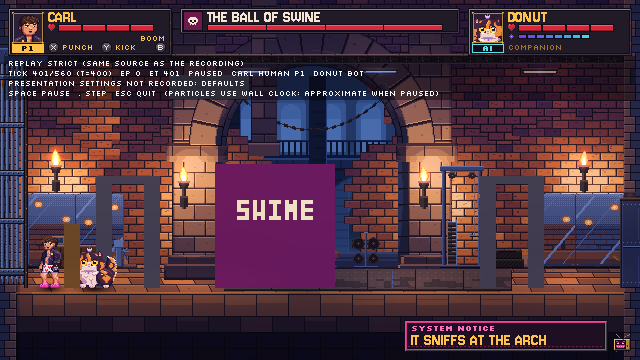
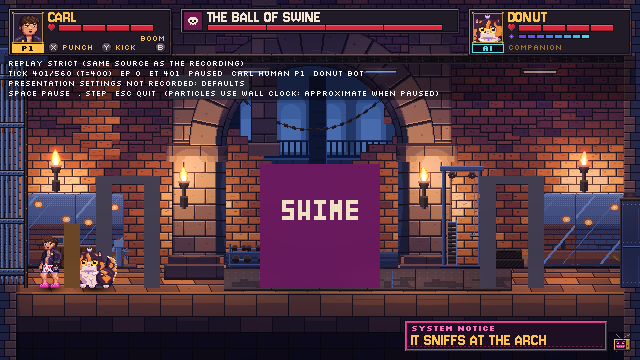
fix(f01): BOS-A review fixes: the ball recentres after a crash (BOS-AD34, closes BOS-Q12), F19, F11 asserts >= 3 crashes, G-5 at the alcove edge, push_heroes room under the siege gate

Changed region(s): [[0.3125, 0.4583, 0.5938, 0.825]]

diff --git a/src/ball_fixtures.rs b/src/ball_fixtures.rs
@@ -10,9 +10,7 @@
 use std::path::Path;
 
 use crate::boss::{Boss, BossMode};
-use crate::boss_scene::{
-    BALL_FULL, BALL_STORY_PIN, Pilot, ball_hp, ball_story_setup, boss_base, load_ball_arena,
-};
+use crate::boss_scene::{BALL_FULL, Pilot, ball_hp, ball_story_setup, boss_base, load_ball_arena};
 use crate::combat::CombatEvent;
 use crate::combat_scene::{CombatState, Fixture};
 use crate::corridor::SceneSim;
@@ -31,18 +29,28 @@ pub const ALCOVE_LEFT_X: f32 = 80.0;
 pub const ALCOVE_RIGHT_X: f32 = 560.0;
 /// The jab period of the pilot: a first-clear player, not a frame-perfect bot.
 const SWING_PERIOD: u64 = 16;
+/// Where the pilot waits just outside an alcove (reachable pivots 111..529).
+const STEP_OUT_LEFT_X: f32 = 118.0;
+const STEP_OUT_RIGHT_X: f32 = 522.0;
 /// A hero this far (px, pivot to pivot) from the ball is outside its shove box.
 const SHOVE_CLEAR_PX: f32 = 118.0;
 /// The pilot walks past the engage line to this column to close the gate.
 const ENTER_X: f32 = 150.0;
+
+const fn run(dir: f32) -> RawInput {
+    RawInput {
+        move_x: dir,
+        ..RawInput::NONE
+    }
+}
 
 const fn toward(from: f32, to: f32) -> f32 {
     if to > from { 1.0 } else { -1.0 }
 }
 
 /// `carl_bait_punish` (BOS-AD22, F11): Carl runs into the alcove behind the arch
-/// the roll is aimed at, steps out to punish the crash and the shove's
-/// recovery, and steps out of the shove's box. A pure function of the state.
+/// the roll is aimed at, steps out to punish the crash (not the shove: it baits
+/// the next roll instead, BOS-AD34), and steps out of the shove's box. A pure function of the state.
 pub fn bait_pilot(tick: u64, combat: &CombatState, scene: &SceneSim, boss: &Boss) -> RawInput {
     let hero = &scene.world.hero;
     let x = hero.x;
@@ -96,11 +104,7 @@ pub fn bait_pilot(tick: u64, combat: &CombatState, scene: &SceneSim, boss: &Boss
             };
             let vulnerable = matches!(
                 boss.mode,
-                BossMode::Rebound
-                    | BossMode::Stun
-                    | BossMode::Pinned
-                    | BossMode::PoundRecover
-                    | BossMode::Flinch
+                BossMode::Rebound | BossMode::Stun | BossMode::Pinned | BossMode::Flinch
             );
             let gap = if x < body.left {
                 body.left - x
@@ -113,14 +117,21 @@ pub fn bait_pilot(tick: u64, combat: &CombatState, scene: &SceneSim, boss: &Boss
             if !vulnerable {
                 // Bait: stay at the edge of the shove's reach (never nearer
                 // than the box) and let the ball come or roll.
-                return if gap < 56.0 {
-                    RawInput {
+                if gap < 56.0 {
+                    return RawInput {
                         move_x: -side,
                         ..RawInput::NONE
-                    }
-                } else {
-                    idle
-                };
+                    };
+                }
+                // Out of the alcove once the ball has walked back far enough (BOS-AD34): a
+                // hero inside it is unreachable, so no roll could be baited.
+                if x <= 110.0 && (boss.x - STEP_OUT_LEFT_X).abs() >= 130.0 {
+                    return run(1.0);
+                }
+                if x >= 530.0 && (boss.x - STEP_OUT_RIGHT_X).abs() >= 130.0 {
+                    return run(-1.0);
+                }
+                return idle;
             }
             if gap > 18.0 {
                 return RawInput {
@@ -411,7 +422,6 @@ pub fn ball_relaunch(
             break;
         }
     }
-    let _ = BALL_STORY_PIN;
     Ok(sim)
 }
 
@@ -585,6 +595,12 @@ mod tests {
             c.rig.tally.crashes.len()
         );
         assert!((1200..=6000).contains(&at), "F11 clear at tick {at}");
+        // The fight's identity (BOS-AD34): the roll is baited again and again, not once.
+        assert!(
+            c.rig.tally.crashes.len() >= 3,
+            "F11: {} crashes",
+            c.rig.tally.crashes.len()
+        );
         assert!(c.rig.health_of(HeroId::Carl) >= 1 && c.rig.health_of(HeroId::Donut) >= 1);
         // F15: one phase, no roar, shockwave or double pound.
         assert!(c.phase_1 && c.no_ripple && c.no_forbidden_event);
@@ -794,7 +810,7 @@ mod tests {
 
     // F8b: a hide directly after a left crash.
     #[test]
-    fn f8b_the_siege_still_commits_after_a_crash_close_to_the_arch() {
+    fn f8b_the_siege_still_commits_after_a_crash_and_the_recentre() {
         // Donut baits a roll at the left arch and hides; Carl is already hidden.
         let mut rig = staged(448.0, -1, 80.0, 320.0);
         drive(
@@ -824,9 +840,70 @@ mod tests {
         }
         let x = stopped.expect("the warning came");
         println!("BOS-F8b warning_x={x}");
-        assert!((x - 276.0).abs() <= 2.0, "the ball stops at about 276: {x}");
+        // BOS-AD34: the ball walks back to the centre after the crash (3 px/tick, about 33
+        // ticks) and then stops at the warning; before it, the walk stopped at about 276.
+        assert!(
+            (x - 320.0).abs() <= 2.0,
+            "the ball stops at the centre: {x}"
+        );
         assert_eq!(rig.tally.crashes.len(), 2, "the siege roll still crashed");
         assert!(rig.tally.debris_hits >= 1);
+    }
+
+    // F19 (BOS-AD34, closes BOS-Q12): after a crash the ball walks back to the centre,
+    // so a hero in the arch pocket is baited again: the cycle repeats.
+    #[test]
+    fn f19_the_ball_recentres_after_a_crash_and_the_next_roll_follows() {
+        let mut rig = staged(448.0, -1, 320.0, 60.0);
+        let (mut stun_over, mut centred, mut stepped, mut second_tell) = (None, None, false, None);
+        for tick in 0..900u64 {
+            let b = rig.boss();
+            let x = rig.x_of(HeroId::Carl);
+            if stun_over.is_none() && !rig.tally.crashes.is_empty() && b.mode == BossMode::Neutral {
+                stun_over = Some(tick);
+            }
+            if centred.is_none() && stun_over.is_some() && (b.x - 320.0).abs() < 0.01 {
+                centred = Some(tick);
+            }
+            if stun_over.is_some() && b.mode == BossMode::ChargeTell && second_tell.is_none() {
+                second_tell = Some(tick);
+            }
+            // Carl runs for the alcove from the first tell, then steps out once the ball
+            // has walked back far enough, and waits in the pocket.
+            let carl = if second_tell.is_none() && stun_over.is_none() {
+                carl_runs(&rig)[0]
+            } else if stun_over.is_some() && second_tell.is_none() && (stepped || b.x >= 300.0) {
+                stepped = true;
+                if x < 125.0 { run(1.0) } else { IDLE }
+            } else {
+                carl_runs(&rig)[0]
+            };
+            rig.step([carl, IDLE]);
+            if rig.tally.crashes.len() == 2 {
+                break;
+            }
+        }
+        let (over, at) = (
+            stun_over.expect("the first stun ended"),
+            centred.expect("it recentred"),
+        );
+        println!(
+            "BOS-F19 stun_over={over} centred_after={} second_tell={second_tell:?}",
+            at - over
+        );
+        assert!(
+            at - over <= 40,
+            "back at the centre within 40 ticks: {}",
+            at - over
+        );
+        assert!(second_tell.is_some(), "the next roll was baited");
+        assert_eq!(rig.tally.crashes.len(), 2, "and it crashed");
+        assert_eq!(
+            rig.tally.party_loss, 0,
+            "the pocket hero ran for the alcove in time"
+        );
+        // The Juicer's data has no recentre speed: it stays where it stood.
+        assert!(crate::boss::builtin().siege.is_none());
     }
 
     // F9

diff --git a/src/boss.rs b/src/boss.rs
@@ -257,6 +257,12 @@ pub struct SiegeData {
     /// unkillable decoy. Off unless the solo gate rows fail without it.
     #[serde(default)]
     pub ignore_bot_decoy: bool,
+    /// BOS-AD34 (closes BOS-Q12): after a Stun or a Pin the ball walks back toward
+    /// `arena.centre_x` at this many px per tick (0 or absent: it stays where it
+    /// stood), so a hero in the arch pocket gets the run room of the next bait
+    /// roll. It deals no damage; a hero in its shove range still gets the shove.
+    #[serde(default)]
+    pub recentre_px_per_tick: f32,
 }
 
 /// Every tunable of the encounter (design section 6).
@@ -731,6 +737,9 @@ pub struct Boss {
     /// BOS-AD20: the running or telegraphed roll is a siege roll. Hashed only
     /// when `data.siege` is Some.
     siege_roll: bool,
+    /// BOS-AD34: the ball is walking back to the centre after a Stun or a Pin.
+    /// Hashed only when `data.siege` is Some.
+    recentring: bool,
 }
 
 impl Boss {
@@ -774,6 +783,7 @@ impl Boss {
             defeated_cause_rack: false,
             unreachable_ticks: 0,
             siege_roll: false,
+            recentring: false,
         }
     }
 
@@ -1611,6 +1621,7 @@ impl Boss {
             BossMode::Stun => {
                 if self.mode_tick >= self.by_phase(d.crash.stun_by_phase) {
                     self.enter(BossMode::Neutral);
+                    self.recentring = self.recentre_speed() > 0.0;
                 }
             }
             BossMode::Roar => {
@@ -1633,6 +1644,7 @@ impl Boss {
             BossMode::Pinned => {
                 if self.mode_tick >= d.rack.pin_ticks {
                     self.enter(BossMode::Neutral);
+                    self.recentring = self.recentre_speed() > 0.0;
                 }
             }
         }
@@ -1684,6 +1696,9 @@ impl Boss {
             self.start_roar(ctx, out);
             return;
         }
+        if self.recentring && self.recentre_step(ctx) {
+            return;
+        }
         if d.siege.is_some() && self.siege_step(ctx, out) {
             return;
         }
@@ -1730,6 +1745,37 @@ impl Boss {
         if ahead > d.pound.range_px[1] {
             self.x = self.clamp_walk(self.x + f32::from(self.facing) * d.walk_px_s * TICK);
         }
+    }
+
+    /// BOS-AD34: the recentre speed (px per tick) of the data, 0 without a siege rule.
+    fn recentre_speed(&self) -> f32 {
+        self.data
+            .siege
+            .as_ref()
+            .map_or(0.0, |s| s.recentre_px_per_tick)
+    }
+
+    /// BOS-AD34: one tick of the walk back to the centre after a Stun or a Pin.
+    /// A target standing in the shove range still gets the shove (the caller goes
+    /// on); otherwise the ball steps toward `centre_x` and the walk ends on it.
+    /// Returns true when it took the tick.
+    fn recentre_step(&mut self, ctx: &BossCtx) -> bool {
+        let d = self.data;
+        let speed = self.recentre_speed();
+        if let Some(target) = self.target_view(ctx) {
+            let ahead = (target.x - self.x) * f32::from(self.facing);
+            if (d.pound.range_px[0]..=d.pound.range_px[1]).contains(&ahead) {
+                return false;
+            }
+        }
+        let to = d.arena.centre_x - self.x;
+        if to.abs() <= speed {
+            self.x = d.arena.centre_x;
+            self.recentring = false;
+        } else {
+            self.x = self.clamp_walk(self.x + to.signum() * speed);
+        }
+        true
     }
 
     /// BOS-AD20, BOS-AD27: the siege in Neutral. At the warning the ball stops
@@ -1906,8 +1952,16 @@ impl Boss {
             }
             let to_left = body.left - HERO_HALF_WIDTH - 1.0;
             let to_right = body.right() + HERO_HALF_WIDTH + 1.0;
-            let room_left = body.left - arena.left_wall_x;
-            let room_right = arena.right_wall_x - body.right();
+            // BOS-AD34 (review R4): with a siege rule the room is measured to the
+            // gate solid and the hero wall, not to the arches (the heroes walk
+            // past them), so nobody is pushed through the body.
+            let (lo, hi) = if self.data.siege.is_some() {
+                (self.data.gate.solid_x, arena.hero_right_wall())
+            } else {
+                (arena.left_wall_x, arena.right_wall_x)
+            };
+            let room_left = body.left - lo;
+            let room_right = hi - body.right();
             let nearer_left = (hero.x - to_left).abs() <= (to_right - hero.x).abs();
             let go_left = if nearer_left {
                 room_left >= min_room || room_right < min_room
@@ -1985,6 +2039,7 @@ impl Boss {
         if self.data.siege.is_some() {
             mix(u64::from(self.unreachable_ticks));
             mix(u64::from(self.siege_roll));
+            mix(u64::from(self.recentring));
         }
     }
 }

diff --git a/src/bos_eval.rs b/src/bos_eval.rs
@@ -169,10 +169,10 @@ pub fn rows() -> Vec<Row> {
         },
         Row {
             id: "G-5",
-            setup: "Carl stationary jab at the left alcove mouth (pivot 105); Donut idle in the alcove (60)"
+            setup: "Carl stationary jab at the left alcove edge (pivot 110, held at 107..110 after the turn step); Donut idle in the alcove (60)"
                 .into(),
             solo: false,
-            carl: plan(START_X, Some(105.0), 1.0, Act::Jab),
+            carl: plan(START_X, Some(106.9), 1.0, Act::Jab),
             donut: PARKED_LEFT,
             ranges: [Some(LEFT_ALCOVE), Some(LEFT_ALCOVE)],
         },
@@ -193,7 +193,7 @@ pub fn rows() -> Vec<Row> {
         out.push(Row {
             id: ["G-7a", "G-7b", "G-7c"][i],
             setup: format!(
-                "solo: the player is Donut, casting from the right alcove at pivot {p}; Carl is the live follower bot (M1)"
+                "solo: the player is Donut, casting from the right alcove at pivot {p}; Carl is the live follower bot (M1), stranded on the far side (the decoy case is G-6)"
             ),
             solo: true,
             carl: plan(130.0, None, 1.0, Act::Idle),
@@ -210,10 +210,22 @@ struct Hold {
     turned: bool,
 }
 
+impl Hold {
+    fn crossed(&self, start: f32, x: f32, target: f32) -> bool {
+        if target >= start {
+            x >= target
+        } else {
+            x <= target
+        }
+    }
+}
+
 fn drive_one(plan: &Plan, x: f32, facing: i8, hold: &mut Hold, tick: u64) -> RawInput {
+    // It walks until it has crossed its column (so a column just inside an alcove's edge
+    // is held after the turn step, never outside it).
     if let Some(target) = plan.target
         && !hold.turned
-        && (x - target).abs() > 2.0
+        && !hold.crossed(plan.start, x, target)
     {
         return RawInput {
             move_x: if target > x { 1.0 } else { -1.0 },

diff --git a/docs/04-production/f01-playtest-ready-01.md b/docs/04-production/f01-playtest-ready-01.md
@@ -75,7 +75,7 @@ The HUD strip shows `ROOM n/17` in the panels and the room title with `TRY n`. T
 | 15 | `juicer` "The Juicer" (room 5, boss) | The boss arena with the gym kit; dynamite, the gate, the grants (HEAVY FIST, PUDDLE JUMPER); an autonomous Donut fights too. | dressed: AREA-GYM-01 #275 (its own exit door, GYM-AD2), gate drop #288 |
 | 16 | `rest_aftermath` "After the Juicer" | Quiet room: the wrecked gym, the heavy bag, a 112 px blink lane with no reward. REST-C #304. | dressed: AREA-CAMP-01 #308 |
 | 17 | `mastery` "The Mastery Arena" (room 6) | Everything is held; wave 1 brawl lane, wave 2 llama yard; the exit gate opens when the roster is down. Leads into the Ball of Swine. | greybox; the exit gate is drawn (#274), the room itself is not dressed |
-| 18 | `bos` "The Ball of Swine" (the finale, `--scene f01_ball`) | The locked 640 px arena with two abstract arches and a hero alcove behind each. Bait the roll into an arch from the alcove, then punish the crash; hit the chain-weight post in the left alcove three times to drop it on the stunned ball; a hero who hides in an alcove is sieged (the ball sniffs, then rolls at the arch). The exit opens only on a real defeat. BOS-A (the plan: `docs/01-design/floor-01-bos-integration.md`, from the owner draft #192). | greybox: the ball is a labelled body, the arches are outlines, no new art |
+| 18 | `bos` "The Ball of Swine" (the finale, `--scene f01_ball`) | The locked 640 px arena with two abstract arches and a hero alcove behind each. Bait the roll into an arch from the alcove, then punish the crash; hit the chain-weight post in the left alcove three times to drop it on the stunned ball; a hero who hides in an alcove is sieged (the ball sniffs, then rolls at the arch); after a crash the ball walks back to the centre so the roll can be baited again (BOS-AD34); a hero who stays within its shove range gets the shove loop instead. The exit opens only on a real defeat. BOS-A (the plan: `docs/01-design/floor-01-bos-integration.md`, from the owner draft #192). | greybox: the ball is a labelled body, the arches are outlines, no new art |
 
 ## 3. Missing, by owner decision (budget order 2026-11-27)
 
@@ -111,7 +111,7 @@ Two to four things per room. "Look" means judge with your eyes at 1x; "feel" mea
 15. **`juicer`.** Feel: dynamite on the boss, the autonomous Donut in the fight (she leaves Carl the kill). Look: the `HEAVY FIST` then `PUDDLE JUMPER` notices (the second notice never showed in one capture, check it in the Juicer), the gate drop, the narrow 20 px exit door.
 16. **`rest_aftermath`.** Look: the wrecked gym, the grooves, the bag (`--rest-pilot punch`). Feel: the 112 px blink lane has no reward: is it worth having?
 17. **`mastery`.** Feel: the "powerful enemies" waves with everything held; clear time. The exit leads into the Ball of Swine.
-18. **`bos`.** Feel: the 36-tick roll tell and the run to the alcove (a roll is dodged only by the alcove; Carl's jump does not clear it), the punish of the crash (about 4 jab hits in the 66-tick stun), the shove's tell and recovery, the chain weight (hit the post twice early, bait the roll into the left arch, land the third hit during the crash), and the siege: stay in an alcove and the ball sniffs (`IT SNIFFS AT THE ARCH`), then rolls at the arch for 2 damage to heroes in it; stepping out cancels it. Look: the greybox ball with its label, the arch outlines, the exit opening after the defeat and the `FLOOR 1 CLEARED` panel with its facts-only total.
+18. **`bos`.** Feel: the 36-tick roll tell and the run to the alcove (a roll is dodged only by the alcove; Carl's jump does not clear it), the punish of the crash (about 4 jab hits in the 66-tick stun) and the ball walking back to the centre afterwards (a pilot baits about 8 rolls in a clear), the shove's tell and recovery, the chain weight (hit the post twice early, bait the roll into the left arch, land the third hit during the crash), and the siege: stay in an alcove and the ball sniffs (`IT SNIFFS AT THE ARCH`), then rolls at the arch for 2 damage to heroes in it; stepping out cancels it. Look: the greybox ball with its label, the arch outlines, the exit opening after the defeat and the `FLOOR 1 CLEARED` panel with its facts-only total.
 
 ## 5. Adopted defaults to review
 

diff --git a/docs/01-design/floor-01-bos-integration.md b/docs/01-design/floor-01-bos-integration.md
@@ -259,6 +259,7 @@ A gate is warranted.
 | F15 | over F11's run | phase stays 0; no Roar, Shockwave or DoublePound event | `queue_roar: false` |
 | F16 | run smoke: `scripts/f01_run_smoke.sh` lists 18 rooms, all `status=ok`; plus an in-process `on_exit(bos)` test that reaches `floor_end_panel` | pass | the smoke runs each room separately; a `bos` pilot in `src/room_pilots.rs` |
 | F17 | a hero at the alcove edge (pivot 110, mirror 530) through a bait crash on each side | 0 damage both sides | BOS-AD25: front overreach <= 4.3 px, hero edge 122 vs box 124 |
+| F19 | BOS-AD34: after a left crash the ball is back at 320 within 40 ticks of the stun ending (measured 35) and, with Carl stepped out into the pocket, the next `ChargeTell` follows and crashes with 0 damage | pass | the recentre walk; F11 asserts >= 3 crashes (measured 8) |
 | F18 | PLAYTRACE: record and replay a `bos` run | round-trip identical, label `("boss", Some("bos"))` or a new source, Ball fixture loaded; Juicer replay goldens unchanged | `src/playtrace/replay.rs` gains the Ball source (R3) |
 
 ### 9.3 Gate `bos_eval` (STATIONARY, BOS-AD22)
@@ -335,6 +336,7 @@ If one of these moves, BOS-A stops and reports. It does not re-pin.
 | BOS-Q8 | Siege warning text | data, "IT SNIFFS AT THE ARCH" (placeholder) |
 | BOS-Q9 | Should the weight re-arm within one attempt? | no: once per attempt |
 | BOS-Q10 | Should the arch crash hurt the ball (#192 "gate impact 3..4")? | no in BOS-A; the weight carries the environmental damage. BOS-B may add `crash.self_damage` |
+| BOS-Q12 | After a crash the ball stays at the crash pivot and the fight collapses into a shove loop (one roll per fight) | adopted: it recentres at 3.0 px/tick (BOS-AD34). With it F11 measures 8 crashes and a clear at tick 2083 |
 | BOS-Q11 | Should the siege counter ignore the M1 bot in solo? | only if G-6 or G-7 fails: then the counter treats the M1-protected bot as unreachable while the player-controlled hero is in an alcove (6.4) |
 
 ## 12. Cuts and deferrals from #192
@@ -416,4 +418,5 @@ These reuse what exists. No new concept art is needed.
 | BOS-AD31 | no Juicer emblem, sprite or death presenter for the Ball; the `rolling_brute` species has no death profile and uses the generic fallback (accepted for the greybox) | R8 |
 | BOS-AD32 | test data that may move without a stop: the order lists, room counts, label tables, exit-art test and smoke script | R9 |
 | BOS-AD33 | the room-18 run, smoke, replay and ledger plumbing (work order, F16, F18) | R3 |
+| BOS-AD34 | **the ball recentres after a crash** (closes BOS-Q12): after a Stun or a Pin it walks back toward `centre_x` at `siege.recentre_px_per_tick` 3.0 (about 35 ticks from a crash pivot), so a hero in the arch pocket gets the run room (pivot >= 312, gap >= 128) of the next bait roll; a target in shove range still gets the shove; gated on the siege data, hashed under the siege gate, the Juicer is unchanged; `push_heroes` measures side room to the gate solid and the hero wall under the siege gate; F19, and F11 asserts >= 3 crashes | BOS-A review R1, R3, R4 |
 | (nits) | weight centre 209 (R11); second #192 deviation (R12); CUT11 cell and the panel's data source (R13) | R11..R13 |
